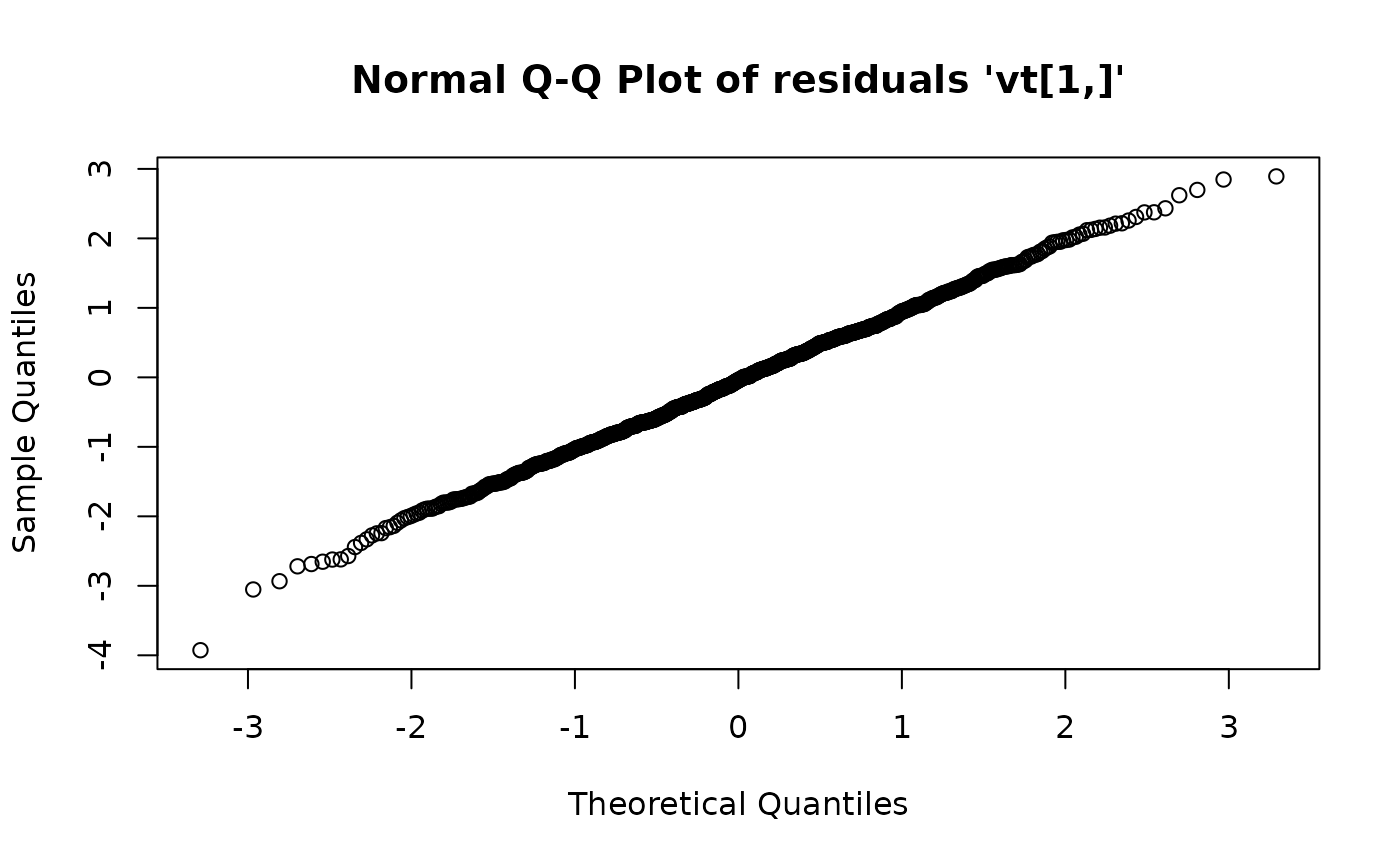
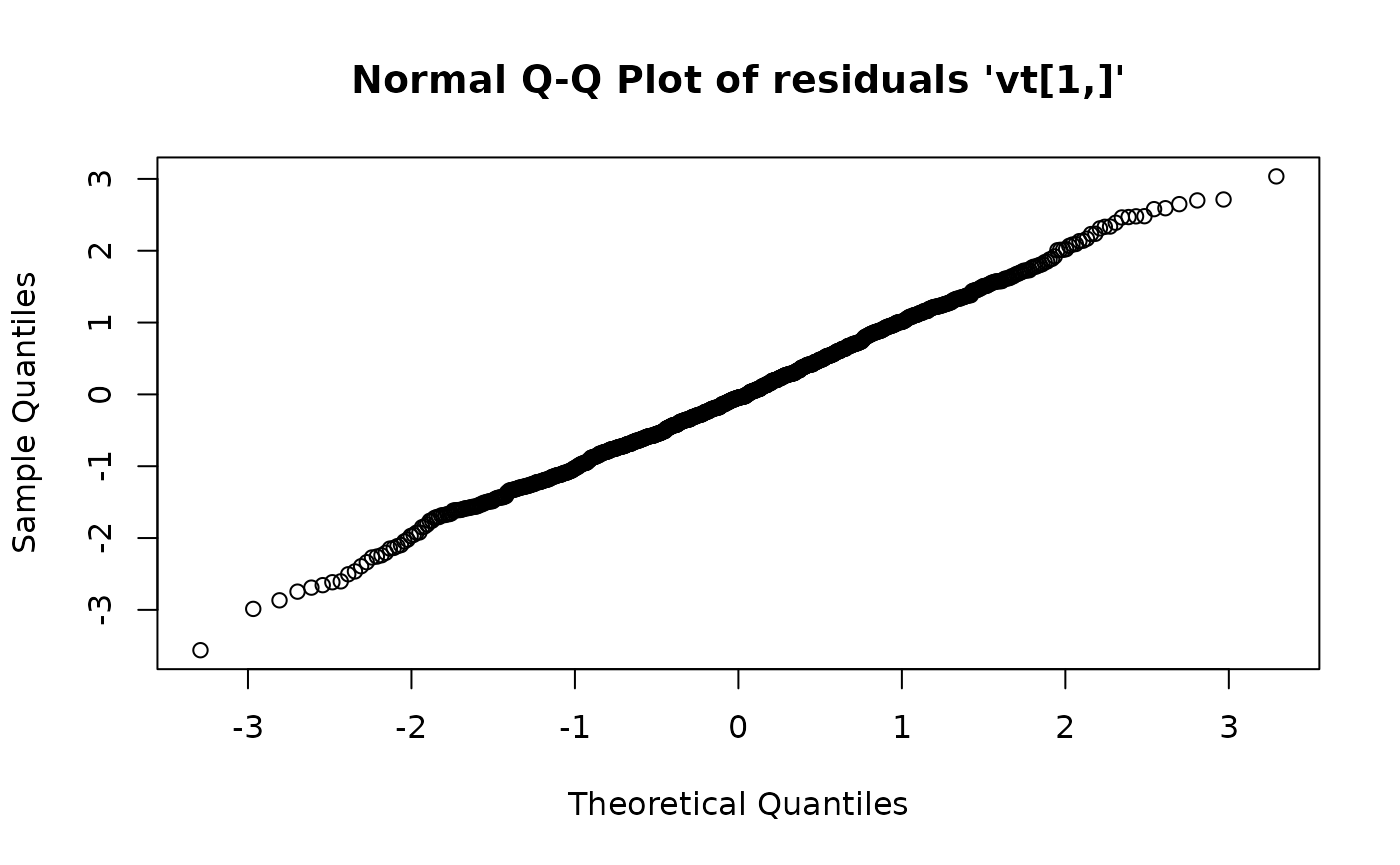
Built site for FKF: 0.2.3@47a07cf

diff --git a/articles/FKF.html b/articles/FKF.html
@@ -143,11 +143,11 @@ a_{t} = \frac{-0.2}{1 - 0.6z^{-1} - 0.2z^{-1}}\eta_t
            lowerCI <span class="op">=</span> <span class="va">fit</span><span class="op">$</span><span class="va">par</span> <span class="op">-</span> <span class="fu"><a href="https://rdrr.io/r/stats/Normal.html" class="external-link">qnorm</a></span><span class="op">(</span><span class="fl">0.975</span><span class="op">)</span> <span class="op">*</span> <span class="fu"><a href="https://rdrr.io/r/base/MathFun.html" class="external-link">sqrt</a></span><span class="op">(</span><span class="fu"><a href="https://rdrr.io/r/base/diag.html" class="external-link">diag</a></span><span class="op">(</span><span class="fu"><a href="https://rdrr.io/r/base/solve.html" class="external-link">solve</a></span><span class="op">(</span><span class="va">fit</span><span class="op">$</span><span class="va">hessian</span><span class="op">)</span><span class="op">)</span><span class="op">)</span>,
            upperCI <span class="op">=</span> <span class="va">fit</span><span class="op">$</span><span class="va">par</span> <span class="op">+</span> <span class="fu"><a href="https://rdrr.io/r/stats/Normal.html" class="external-link">qnorm</a></span><span class="op">(</span><span class="fl">0.975</span><span class="op">)</span> <span class="op">*</span> <span class="fu"><a href="https://rdrr.io/r/base/MathFun.html" class="external-link">sqrt</a></span><span class="op">(</span><span class="fu"><a href="https://rdrr.io/r/base/diag.html" class="external-link">diag</a></span><span class="op">(</span><span class="fu"><a href="https://rdrr.io/r/base/solve.html" class="external-link">solve</a></span><span class="op">(</span><span class="va">fit</span><span class="op">$</span><span class="va">hessian</span><span class="op">)</span><span class="op">)</span><span class="op">)</span><span class="op">)</span>
 <span class="va">p</span>
-<span class="co">#&gt;          actual   estimate    lowerCI   upperCI</span>
-<span class="co">#&gt; ar1    0.600000 0.39593600  0.2243722 0.5674999</span>
-<span class="co">#&gt; ar2    0.200000 0.33027699  0.2177770 0.4427770</span>
-<span class="co">#&gt; ma1   -0.200000 0.02538719 -0.1593270 0.2101014</span>
-<span class="co">#&gt; sigma  1.414214 1.42289569  1.3605142 1.4852772</span></code></pre></div>
+<span class="co">#&gt;          actual   estimate     lowerCI    upperCI</span>
+<span class="co">#&gt; ar1    0.600000  0.7069154  0.53594445  0.8778864</span>
+<span class="co">#&gt; ar2    0.200000  0.1418279  0.01783493  0.2658208</span>
+<span class="co">#&gt; ma1   -0.200000 -0.3172825 -0.48897801 -0.1455870</span>
+<span class="co">#&gt; sigma  1.414214  1.4026263  1.34112342  1.4641293</span></code></pre></div>
 <p>showing the actual parameters fall within the 95% CI of the estimated values.</p>
 <p>The series can be filtered using the estimated parameter values</p>
 <div class="sourceCode" id="cb7"><pre class="downlit sourceCode r">
@@ -176,6 +176,9 @@ a_{t} = \frac{-0.2}{1 - 0.6z^{-1} - 0.2z^{-1}}\eta_t
 <p>The smoothed estiamte with confidence intervals can be plotted alongside the observed data</p>
 <div class="sourceCode" id="cb13"><pre class="downlit sourceCode r">
 <code class="sourceCode R"><span class="fu"><a href="https://rdrr.io/r/graphics/plot.default.html" class="external-link">plot</a></span><span class="op">(</span><span class="va">sm</span><span class="op">)</span>
+<span class="co">#&gt; Warning in plot.fks(sm): Variane terms less then -1e-10</span>
+
+<span class="co">#&gt; Warning in plot.fks(sm): Variane terms less then -1e-10</span>
 <span class="fu"><a href="https://rdrr.io/r/graphics/lines.html" class="external-link">lines</a></span><span class="op">(</span><span class="va">a</span>,col<span class="op">=</span><span class="st">"black"</span>, lty<span class="op">=</span><span class="st">"dotted"</span><span class="op">)</span></code></pre></div>
 <p><img src="FKF_files/figure-html/fks_plot-1.png" width="700"></p>
 </div>
